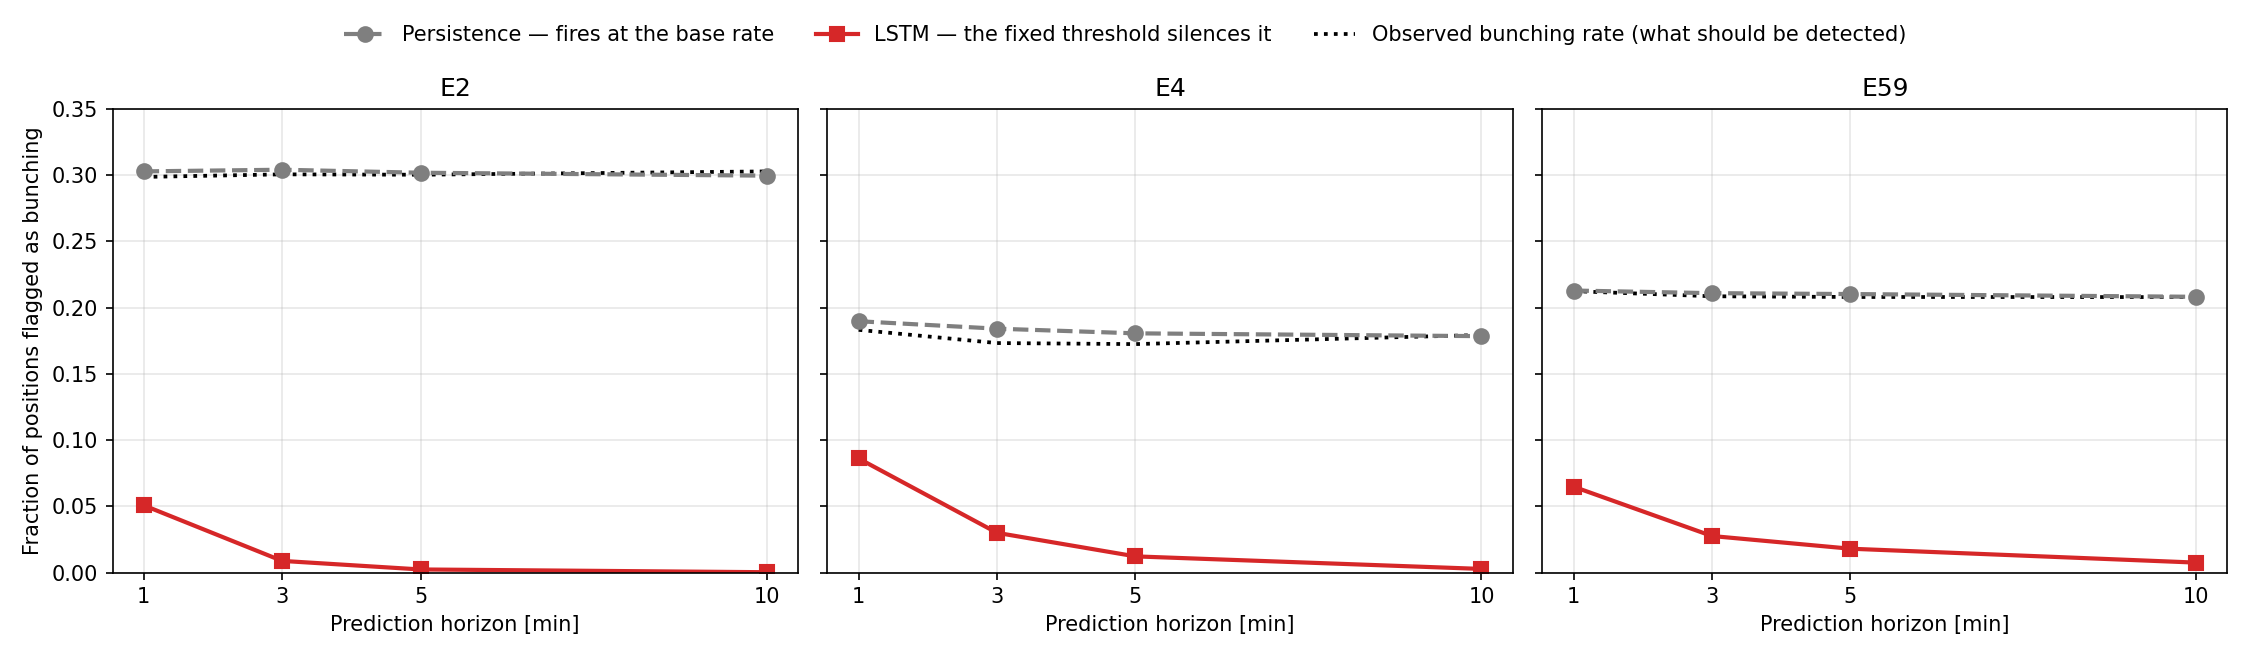
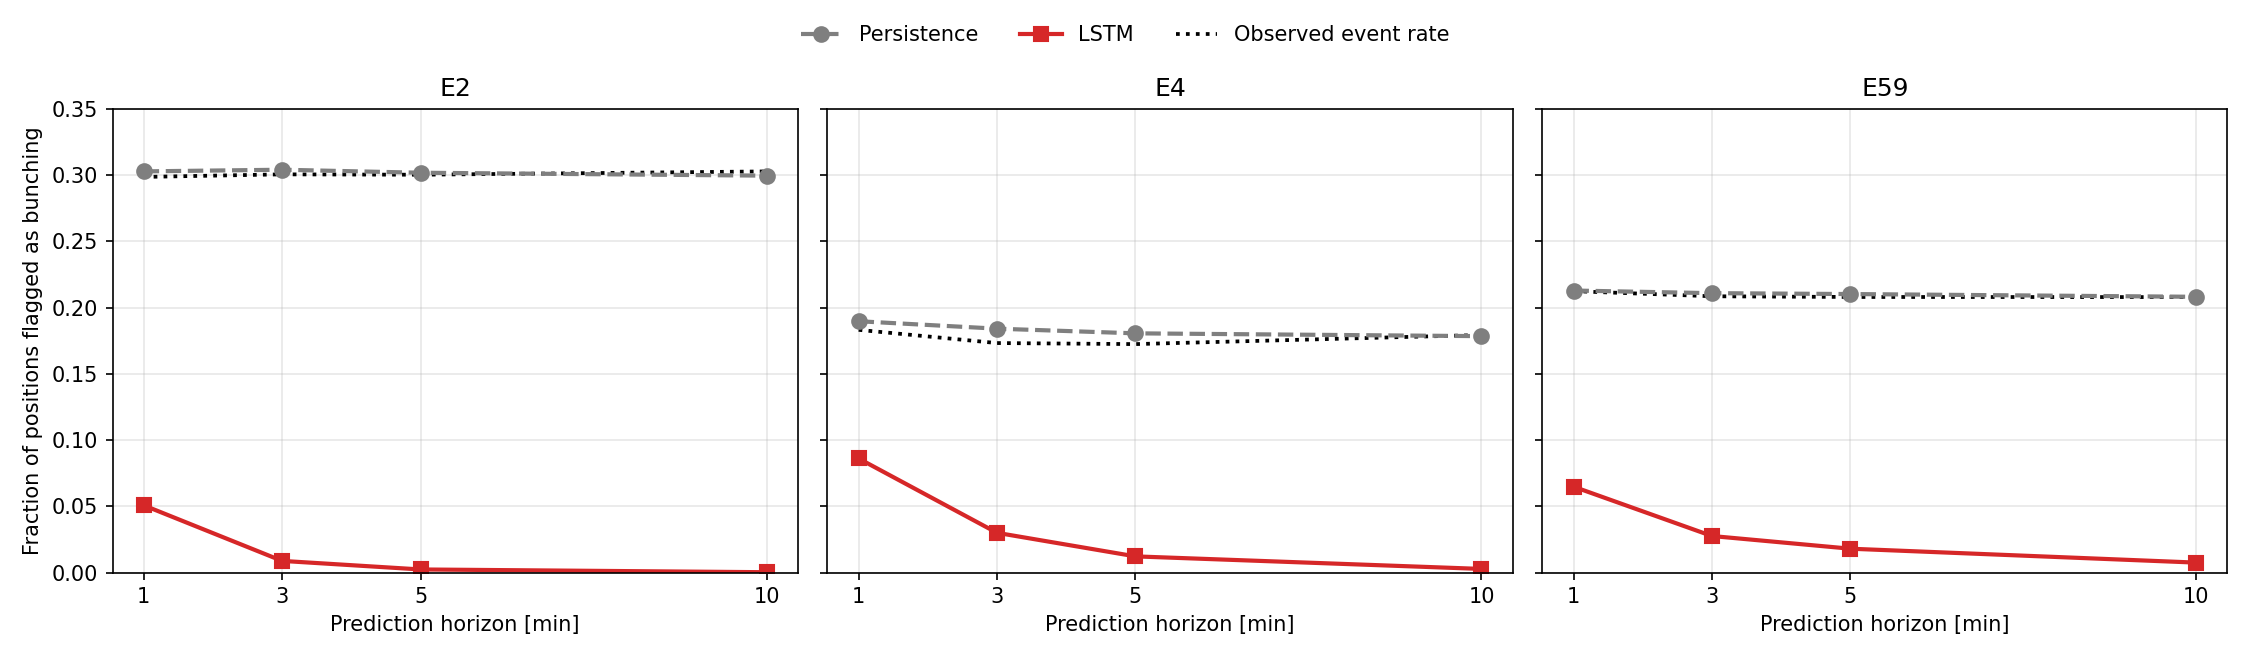
docs(paper): dejar la leyenda de la Fig. 3 con solo el nombre de cada serie

Changed region(s): [[0.1556, 0.0303, 0.84, 0.0606]]

diff --git a/src/build_contiguous_figures.py b/src/build_contiguous_figures.py
@@ -95,9 +95,9 @@ LANG = {
         "delta_axis": "Δ MAE = LSTM − persistencia  [min]",
         "persistence_better": "persistencia mejor ▲",
         "lstm_better": "LSTM mejor ▼",
-        "base_rate": "Tasa real de bunching (lo que habría que detectar)",
-        "persistence_fires": "Persistencia — emite a la tasa base",
-        "lstm_silenced": "LSTM — el umbral fijo lo silencia",
+        "base_rate": "Tasa real del evento",
+        "persistence_fires": "Persistencia",
+        "lstm_silenced": "LSTM",
         "fire_rate_axis": "Fracción de posiciones con trigger",
         "scalar_advantage": "Ventaja escalar del LSTM (MAE)",
         "auc_persistence": "AUC de bunching — persistencia",
@@ -124,9 +124,9 @@ LANG = {
         "delta_axis": "Δ MAE = LSTM − persistence  [min]",
         "persistence_better": "persistence better ▲",
         "lstm_better": "LSTM better ▼",
-        "base_rate": "Observed bunching rate (what should be detected)",
-        "persistence_fires": "Persistence — fires at the base rate",
-        "lstm_silenced": "LSTM — the fixed threshold silences it",
+        "base_rate": "Observed event rate",
+        "persistence_fires": "Persistence",
+        "lstm_silenced": "LSTM",
         "fire_rate_axis": "Fraction of positions flagged as bunching",
         "scalar_advantage": "LSTM scalar advantage (MAE)",
         "auc_persistence": "Bunching AUC — persistence",
